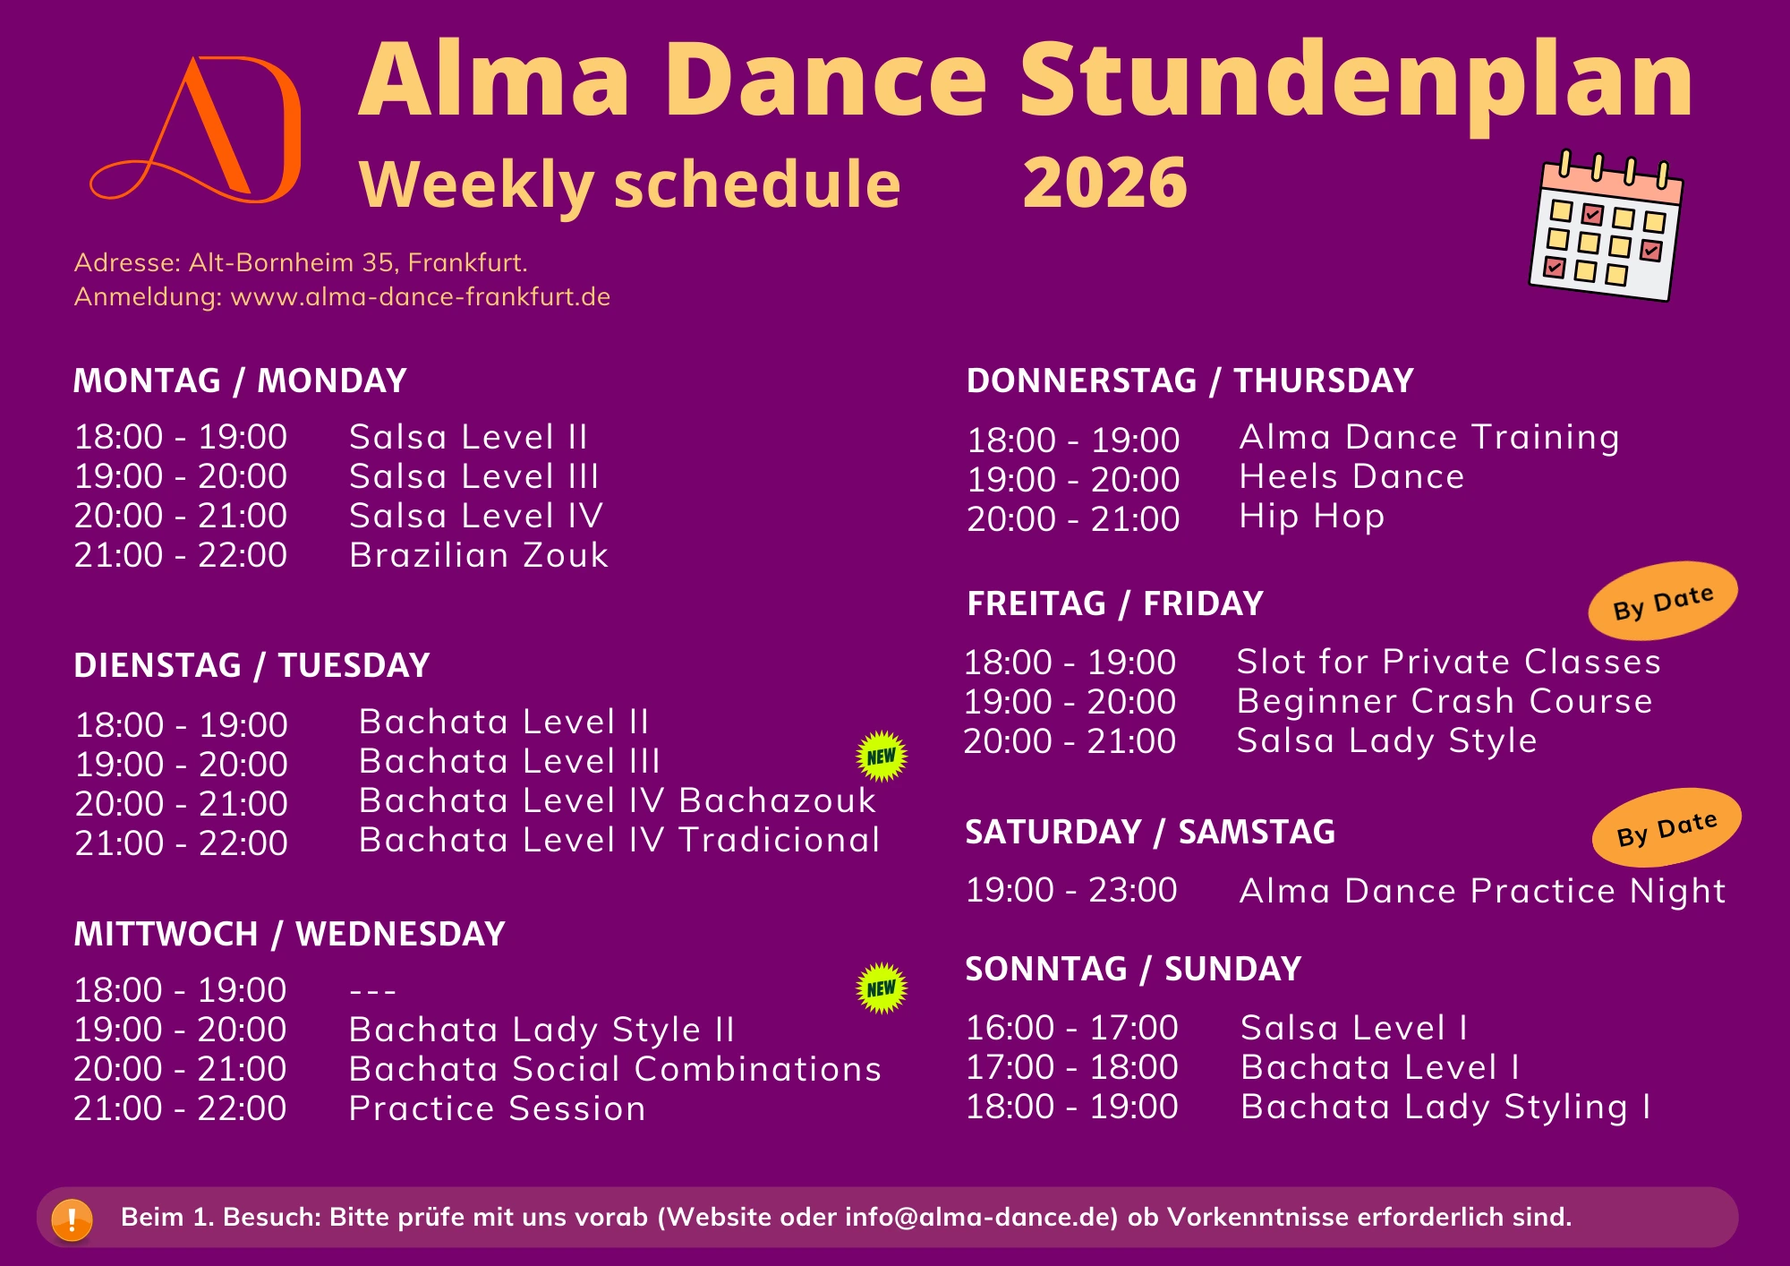
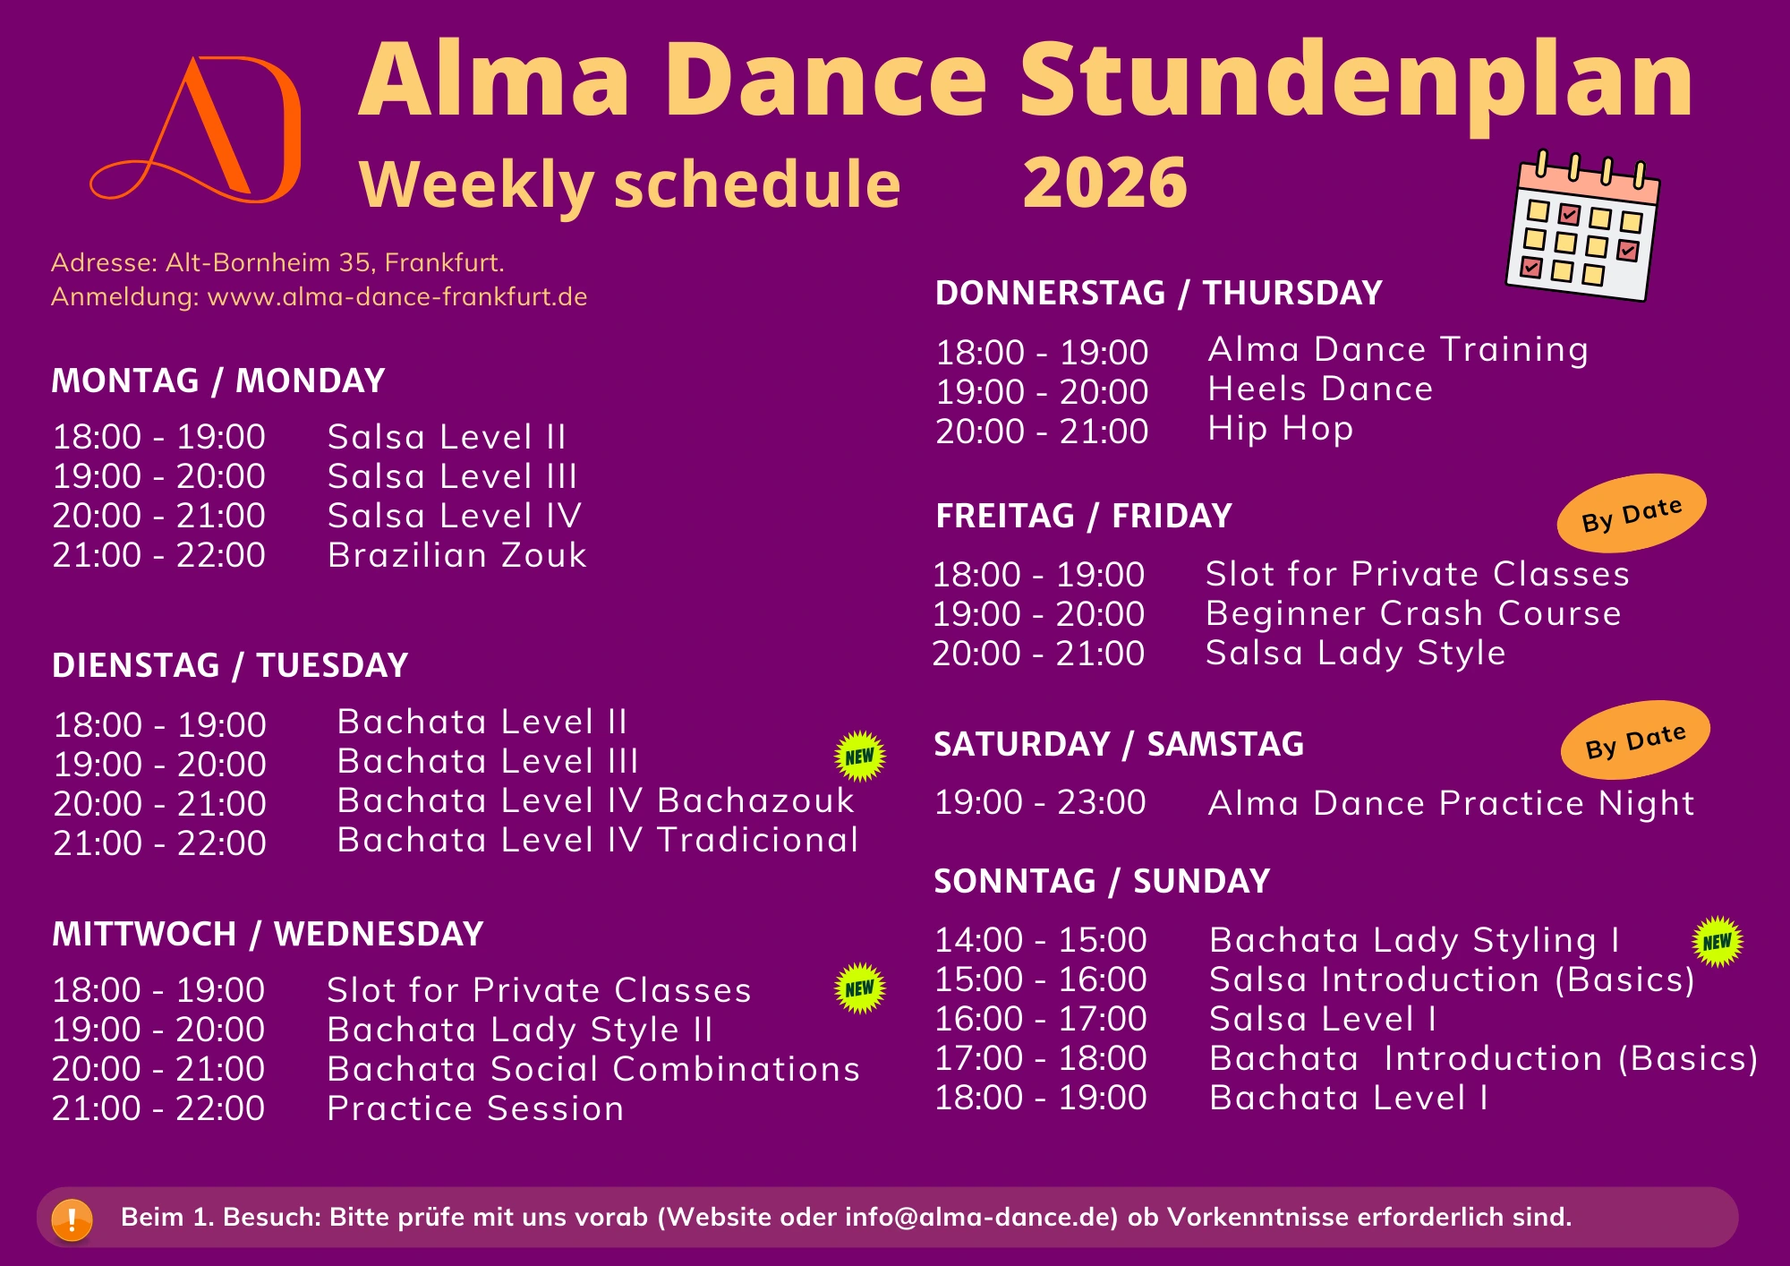
D

diff --git a/booking_de.html b/booking_de.html
@@ -542,7 +542,179 @@ src="https://www.facebook.com/tr?id=753255197460842&ev=PageView&noscript=1"
 </section>
 
 
+<section class="class-schedule-section" style="padding: 80px 0; background-color: #fff;">
+  <div class="container">
+    
+    <!-- Titel und Untertitel -->
+    <div class="section-header text-center mb-5" data-aos="fade-up" data-aos-duration="1500">
+      <h2 style="color: #84309a; font-size: 2.5rem; margin-bottom: 15px;">Unser Stundenplan</h2>
+      <p class="subtitle" style="color: #666; font-size: 1.2rem; max-width: 700px; margin: 0 auto;">
+        Komm in unsere lebendige Tanz-Community – bei uns gibt's Kurse für jedes Level!
+      </p>
+    </div>
 
+    <!-- Kurzer Text vor dem Bild -->
+    <div class="intro-text text-center mb-5" data-aos="fade-up" data-aos-duration="1500" data-aos-delay="100">
+      <p style="font-size: 1.1rem; color: #444; line-height: 1.6; max-width: 800px; margin: 0 auto 30px;">
+        Bei Alma Dance Frankfurt bieten wir die ganze Woche über eine bunte Mischung an Tanzkursen an. 
+        Egal ob du kompletter Anfänger bist oder schon Fortgeschrittener – wir haben den perfekten Kurs für dich. 
+        Unser Stundenplan ist so gemacht, dass er in verschiedene Lebensstile und Terminpläne passt.
+      </p>
+    </div>
+
+    <!-- Zentriertes Bild -->
+    <div class="schedule-image text-center mb-5" data-aos="fade-up" data-aos-duration="1500" data-aos-delay="200">
+      <img loading="lazy" src="images/new/Schedule.webp" alt="Tanzstundenplan Alma Dance Frankfurt" 
+           style="max-width: 100%; height: auto; border-radius: 12px; box-shadow: 0 10px 30px rgba(132, 48, 154, 0.15);">
+    </div>
+
+    <!-- Kommentarbereich unter dem Bild -->
+    <div class="comment-section mb-5" data-aos="fade-up" data-aos-duration="1500" data-aos-delay="300">
+      <div class="comment-card" style="background: #f9f2fc; padding: 25px; border-radius: 10px; border-left: 5px solid #84309a;">
+        <div class="comment-header" style="display: flex; align-items: center; margin-bottom: 15px;">
+          <div class="comment-icon" style="margin-right: 15px;">
+            <i class="icofont-info-circle" style="font-size: 2rem; color: #84309a;"></i>
+          </div>
+          <div class="comment-title">
+            <h4 style="color: #333; margin: 0;">Wichtige Infos</h4>
+          </div>
+        </div>
+        <div class="comment-content">
+          <ul style="color: #555; margin: 0; padding-left: 20px;">
+            <li style="margin-bottom: 8px;">Für alle Kurse musst du dich anmelden – also sicher dir vorher deinen Platz!</li>
+            <li style="margin-bottom: 8px;">Anfänger sollten immer mit den Einsteigerkursen starten</li>
+            <li style="margin-bottom: 8px;">Für Mittelstufe/Fortgeschrittene brauchst du Vorkenntnisse</li>
+            <li>Erstbesucher können eine gratis Probestunde machen</li>
+          </ul>
+        </div>
+      </div>
+    </div>
+
+    <!-- Fragen & Antworten -->
+    <div class="qa-section" data-aos="fade-up" data-aos-duration="1500" data-aos-delay="400">
+      <h3 class="text-center mb-4" style="color: #333; font-size: 1.8rem;">Oft gefragt</h3>
+      
+      <div class="accordion" id="scheduleFAQ">
+        
+        <!-- Frage 1 -->
+        <div class="card mb-3" style="border: 1px solid #e9ecef; border-radius: 8px;">
+          <div class="card-header" id="headingOne" style="background-color: #fff; border-bottom: 1px solid #e9ecef;">
+            <h5 class="mb-0">
+              <button class="btn btn-link" type="button" data-toggle="collapse" data-target="#collapseOne" 
+                      aria-expanded="true" aria-controls="collapseOne"
+                      style="color: #84309a; text-decoration: none; font-weight: 600; width: 100%; text-align: left;">
+                <i class="icofont-question-circle mr-2"></i>
+                Brauche ich einen Partner für die Kurse?
+              </button>
+            </h5>
+          </div>
+          <div id="collapseOne" class="collapse show" aria-labelledby="headingOne" data-parent="#scheduleFAQ">
+            <div class="card-body" style="color: #555;">
+              Nö, keinen Partner! Unsere Kurse sind für Einzelpersonen, und wir wechseln während der Stunde durch. 
+              So lernt man besser und knüpft gleich neue Kontakte in unserer Community.
+            </div>
+          </div>
+        </div>
+
+        <!-- Frage 2 -->
+        <div class="card mb-3" style="border: 1px solid #e9ecef; border-radius: 8px;">
+          <div class="card-header" id="headingTwo" style="background-color: #fff; border-bottom: 1px solid #e9ecef;">
+            <h5 class="mb-0">
+              <button class="btn btn-link collapsed" type="button" data-toggle="collapse" data-target="#collapseTwo" 
+                      aria-expanded="false" aria-controls="collapseTwo"
+                      style="color: #84309a; text-decoration: none; font-weight: 600; width: 100%; text-align: left;">
+                <i class="icofont-question-circle mr-2"></i>
+                Was zieh ich zur ersten Stunde am besten an?
+              </button>
+            </h5>
+          </div>
+          <div id="collapseTwo" class="collapse" aria-labelledby="headingTwo" data-parent="#scheduleFAQ">
+            <div class="card-body" style="color: #555;">
+              Bequeme Klamotten, in denen du dich gut bewegen kannst. Für Schuhe: Saubere Hallenschuhe mit glatter Sohle 
+              (keine Turnschuhe mit starkem Profil). Viele schwören auf Tanzschuhe, aber für Anfänger tun's auch bequeme Flachen.
+            </div>
+          </div>
+        </div>
+
+        <!-- Frage 3 -->
+        <div class="card mb-3" style="border: 1px solid #e9ecef; border-radius: 8px;">
+          <div class="card-header" id="headingThree" style="background-color: #fff; border-bottom: 1px solid #e9ecef;">
+            <h5 class="mb-0">
+              <button class="btn btn-link collapsed" type="button" data-toggle="collapse" data-target="#collapseThree" 
+                      aria-expanded="false" aria-controls="collapseThree"
+                      style="color: #84309a; text-decoration: none; font-weight: 600; width: 100%; text-align: left;">
+                <i class="icofont-question-circle mr-2"></i>
+                Woher weiß ich, welches Level das richtige für mich ist?
+              </button>
+            </h5>
+          </div>
+          <div id="collapseThree" class="collapse" aria-labelledby="headingThree" data-parent="#scheduleFAQ">
+            <div class="card-body" style="color: #555;">
+              Anfänger starten am besten mit unseren Einsteigerkursen (Introduction) . Wenn du schon etwas Erfahrung hast, mach ne Probestunde im niedrigsten möglichen Level und wir checken gemeinsam dein Können. Falls nötig, können wir auch weitere Probetermine vereinbaren.
+            </div>
+          </div>
+        </div>
+
+        <!-- Frage 4 -->
+        <div class="card mb-3" style="border: 1px solid #e9ecef; border-radius: 8px;">
+          <div class="card-header" id="headingFour" style="background-color: #fff; border-bottom: 1px solid #e9ecef;">
+            <h5 class="mb-0">
+              <button class="btn btn-link collapsed" type="button" data-toggle="collapse" data-target="#collapseFour" 
+                      aria-expanded="false" aria-controls="collapseFour"
+                      style="color: #84309a; text-decoration: none; font-weight: 600; width: 100%; text-align: left;">
+                <i class="icofont-question-circle mr-2"></i>
+                Kann ich mitten im Kurs einsteigen?
+              </button>
+            </h5>
+          </div>
+          <div id="collapseFour" class="collapse" aria-labelledby="headingFour" data-parent="#scheduleFAQ">
+            <div class="card-body" style="color: #555;">
+              Bei Einsteigerkursen (Introduction) kannst du jederzeit einsteigen. Bei Mittelstufe und Fortgeschrittenen 
+              geht's eigentlich immer. Melde dich einfach bei uns, dann finden wir gemeinsam die beste Lösung.
+            </div>
+          </div>
+        </div>
+
+        <!-- Frage 5 -->
+        <div class="card mb-3" style="border: 1px solid #e9ecef; border-radius: 8px;">
+          <div class="card-header" id="headingFive" style="background-color: #fff; border-bottom: 1px solid #e9ecef;">
+            <h5 class="mb-0">
+              <button class="btn btn-link collapsed" type="button" data-toggle="collapse" data-target="#collapseFive" 
+                      aria-expanded="false" aria-controls="collapseFive"
+                      style="color: #84309a; text-decoration: none; font-weight: 600; width: 100%; text-align: left;">
+                <i class="icofont-question-circle mr-2"></i>
+                Was ist, wenn ich mal eine Stunde verpasse?
+              </button>
+            </h5>
+          </div>
+          <div id="collapseFive" class="collapse" aria-labelledby="headingFive" data-parent="#scheduleFAQ">
+            <div class="card-body" style="color: #555;">
+              Mit unserer flexiblen Mitgliedschaft kannst du verpasste Stunden meist in derselben Woche oder im selben Monat nachholen. 
+              Bei Kursprogrammen bieten wir Nachholtermine an. Frag einfach unser Team nach den Möglichkeiten.
+            </div>
+          </div>
+        </div>
+
+      </div> <!-- Ende Accordion -->
+
+      <!-- Call-to-Action Buttons -->
+      <div class="text-center mt-5">
+        <a href="kursplan.html" class="btn btn-lg" 
+           style="padding: 15px 40px; background-color: #84309a; color: white; border-radius: 8px; font-weight: 600; text-decoration: none;">
+          <i class="icofont-calendar mr-2"></i>
+          Kompletten Stundenplan & Details ansehen
+        </a>
+          <a href="alma-dance-curriculum.html" class="btn btn-lg" 
+           style="padding: 15px 40px; background-color: #84309a; color: white; border-radius: 8px; font-weight: 600; text-decoration: none;">
+          <i class="icofont-calendar mr-2"></i>
+          Zu unserer Methodik
+        </a>
+      </div>
+
+    </div> <!-- Ende Q&A Section -->
+
+  </div> <!-- Ende Container -->
+</section>
 
   <!-- Page Wraper -->
   <div class="page_wrapper">

diff --git a/booking.html b/booking.html
@@ -593,6 +593,181 @@ src="https://www.facebook.com/tr?id=753255197460842&ev=PageView&noscript=1"
 </section>
 
 
+<!-- Class Schedule Section Start -->
+<section class="class-schedule-section" style="padding: 80px 0; background-color: #fff;">
+  <div class="container">
+    
+    <!-- Title and Subtitle -->
+    <div class="section-header text-center mb-5" data-aos="fade-up" data-aos-duration="1500">
+      <h2 style="color: #84309a; font-size: 2.5rem; margin-bottom: 15px;">Our Class Schedule</h2>
+      <p class="subtitle" style="color: #666; font-size: 1.2rem; max-width: 700px; margin: 0 auto;">
+        Join our vibrant dance community with classes for all levels
+      </p>
+    </div>
+
+    <!-- Short Text Before Picture -->
+    <div class="intro-text text-center mb-5" data-aos="fade-up" data-aos-duration="1500" data-aos-delay="100">
+      <p style="font-size: 1.1rem; color: #444; line-height: 1.6; max-width: 800px; margin: 0 auto 30px;">
+        At Alma Dance Frankfurt, we offer a diverse range of dance classes throughout the week. 
+        Whether you're a complete beginner or an advanced dancer, we have the perfect class for you. 
+        Our schedule is designed to fit different lifestyles and commitments.
+      </p>
+    </div>
+
+    <!-- Centered Picture -->
+    <div class="schedule-image text-center mb-5" data-aos="fade-up" data-aos-duration="1500" data-aos-delay="200">
+      <img loading="lazy" src="images/new/Schedule.webp" alt="Dance Class Schedule Alma Dance Frankfurt" 
+           style="max-width: 100%; height: auto; border-radius: 12px; box-shadow: 0 10px 30px rgba(132, 48, 154, 0.15);">
+    </div>
+
+    <!-- Comment Section Below Picture -->
+    <div class="comment-section mb-5" data-aos="fade-up" data-aos-duration="1500" data-aos-delay="300">
+      <div class="comment-card" style="background: #f9f2fc; padding: 25px; border-radius: 10px; border-left: 5px solid #84309a;">
+        <div class="comment-header" style="display: flex; align-items: center; margin-bottom: 15px;">
+          <div class="comment-icon" style="margin-right: 15px;">
+            <i class="icofont-info-circle" style="font-size: 2rem; color: #84309a;"></i>
+          </div>
+          <div class="comment-title">
+            <h4 style="color: #333; margin: 0;">Important Notes</h4>
+          </div>
+        </div>
+        <div class="comment-content">
+          <ul style="color: #555; margin: 0; padding-left: 20px;">
+            <li style="margin-bottom: 8px;">All classes require registration - book your spot in advance!</li>
+            <li style="margin-bottom: 8px;">Beginner courses should always start with the introductory courses first</li>
+            <li style="margin-bottom: 8px;">Intermediate/Advanced classes require previous experience</li>
+            <li>Free trial class available for first-time visitors</li>
+          </ul>
+        </div>
+      </div>
+    </div>
+
+    <!-- Q&A Section -->
+    <div class="qa-section" data-aos="fade-up" data-aos-duration="1500" data-aos-delay="400">
+      <h3 class="text-center mb-4" style="color: #333; font-size: 1.8rem;">Frequently Asked Questions</h3>
+      
+      <div class="accordion" id="scheduleFAQ">
+        
+        <!-- Question 1 -->
+        <div class="card mb-3" style="border: 1px solid #e9ecef; border-radius: 8px;">
+          <div class="card-header" id="headingOne" style="background-color: #fff; border-bottom: 1px solid #e9ecef;">
+            <h5 class="mb-0">
+              <button class="btn btn-link" type="button" data-toggle="collapse" data-target="#collapseOne" 
+                      aria-expanded="true" aria-controls="collapseOne"
+                      style="color: #84309a; text-decoration: none; font-weight: 600; width: 100%; text-align: left;">
+                <i class="icofont-question-circle mr-2"></i>
+                Do I need a partner to join the classes?
+              </button>
+            </h5>
+          </div>
+          <div id="collapseOne" class="collapse show" aria-labelledby="headingOne" data-parent="#scheduleFAQ">
+            <div class="card-body" style="color: #555;">
+              No, you don't need a partner! Our classes are designed for individuals, and we rotate partners during lessons. 
+              This helps everyone learn better and meet new people in our dance community.
+            </div>
+          </div>
+        </div>
+
+        <!-- Question 2 -->
+        <div class="card mb-3" style="border: 1px solid #e9ecef; border-radius: 8px;">
+          <div class="card-header" id="headingTwo" style="background-color: #fff; border-bottom: 1px solid #e9ecef;">
+            <h5 class="mb-0">
+              <button class="btn btn-link collapsed" type="button" data-toggle="collapse" data-target="#collapseTwo" 
+                      aria-expanded="false" aria-controls="collapseTwo"
+                      style="color: #84309a; text-decoration: none; font-weight: 600; width: 100%; text-align: left;">
+                <i class="icofont-question-circle mr-2"></i>
+                What should I wear to my first class?
+              </button>
+            </h5>
+          </div>
+          <div id="collapseTwo" class="collapse" aria-labelledby="headingTwo" data-parent="#scheduleFAQ">
+            <div class="card-body" style="color: #555;">
+              Wear comfortable clothes that allow movement. For shoes, we recommend clean indoor shoes with smooth soles 
+              (avoid sneakers with heavy grip). Many dancers prefer dance shoes, but comfortable flats work fine for beginners.
+            </div>
+          </div>
+        </div>
+
+        <!-- Question 3 -->
+        <div class="card mb-3" style="border: 1px solid #e9ecef; border-radius: 8px;">
+          <div class="card-header" id="headingThree" style="background-color: #fff; border-bottom: 1px solid #e9ecef;">
+            <h5 class="mb-0">
+              <button class="btn btn-link collapsed" type="button" data-toggle="collapse" data-target="#collapseThree" 
+                      aria-expanded="false" aria-controls="collapseThree"
+                      style="color: #84309a; text-decoration: none; font-weight: 600; width: 100%; text-align: left;">
+                <i class="icofont-question-circle mr-2"></i>
+                How do I know which level is right for me?
+              </button>
+            </h5>
+          </div>
+          <div id="collapseThree" class="collapse" aria-labelledby="headingThree" data-parent="#scheduleFAQ">
+            <div class="card-body" style="color: #555;">
+              Beginners should start with our introductory courses. If you have some experience, start with a trial class at the lowest possible level and we help you check your skills level. We can also offer further trial classes to help you find the perfect level.
+            </div>
+          </div>
+        </div>
+
+        <!-- Question 4 -->
+        <div class="card mb-3" style="border: 1px solid #e9ecef; border-radius: 8px;">
+          <div class="card-header" id="headingFour" style="background-color: #fff; border-bottom: 1px solid #e9ecef;">
+            <h5 class="mb-0">
+              <button class="btn btn-link collapsed" type="button" data-toggle="collapse" data-target="#collapseFour" 
+                      aria-expanded="false" aria-controls="collapseFour"
+                      style="color: #84309a; text-decoration: none; font-weight: 600; width: 100%; text-align: left;">
+                <i class="icofont-question-circle mr-2"></i>
+                Can I join in the middle of a course?
+              </button>
+            </h5>
+          </div>
+          <div id="collapseFour" class="collapse" aria-labelledby="headingFour" data-parent="#scheduleFAQ">
+            <div class="card-body" style="color: #555;">
+              For beginner courses, you can start any time at the Introductory Levels. For intermediate and advanced classes, 
+              you can join anytime. Contact us to discuss your experience level and we'll find the best option for you.
+            </div>
+          </div>
+        </div>
+
+        <!-- Question 5 -->
+        <div class="card mb-3" style="border: 1px solid #e9ecef; border-radius: 8px;">
+          <div class="card-header" id="headingFive" style="background-color: #fff; border-bottom: 1px solid #e9ecef;">
+            <h5 class="mb-0">
+              <button class="btn btn-link collapsed" type="button" data-toggle="collapse" data-target="#collapseFive" 
+                      aria-expanded="false" aria-controls="collapseFive"
+                      style="color: #84309a; text-decoration: none; font-weight: 600; width: 100%; text-align: left;">
+                <i class="icofont-question-circle mr-2"></i>
+                What happens if I miss a class?
+              </button>
+            </h5>
+          </div>
+          <div id="collapseFive" class="collapse" aria-labelledby="headingFive" data-parent="#scheduleFAQ">
+            <div class="card-body" style="color: #555;">
+              With our flexible membership, you can usually make up missed classes within the same week or month. 
+              For course-based programs, we offer catch-up sessions. Check with our team for specific options.
+            </div>
+          </div>
+        </div>
+
+      </div> <!-- End Accordion -->
+
+      <!-- CTA Button -->
+      <div class="text-center mt-5">
+        <a href="schedule.html" class="btn btn-lg" 
+           style="padding: 15px 40px; background-color: #84309a; color: white; border-radius: 8px; font-weight: 600; text-decoration: none;">
+          <i class="icofont-calendar mr-2"></i>
+          View Full Schedule & Details
+        </a>
+          <a href="alma-dance-methodology.html" class="btn btn-lg" 
+           style="padding: 15px 40px; background-color: #84309a; color: white; border-radius: 8px; font-weight: 600; text-decoration: none;">
+          <i class="icofont-calendar mr-2"></i>
+          View our Methodology
+        </a>
+      </div>
+
+    </div> <!-- End Q&A Section -->
+
+  </div> <!-- End Container -->
+</section>
+<!-- Class Schedule Section End -->
 
   <!-- Page Wraper -->
   <div class="page_wrapper">
